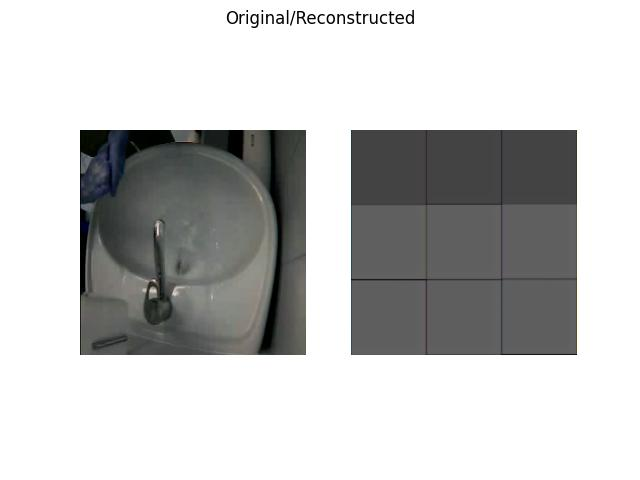
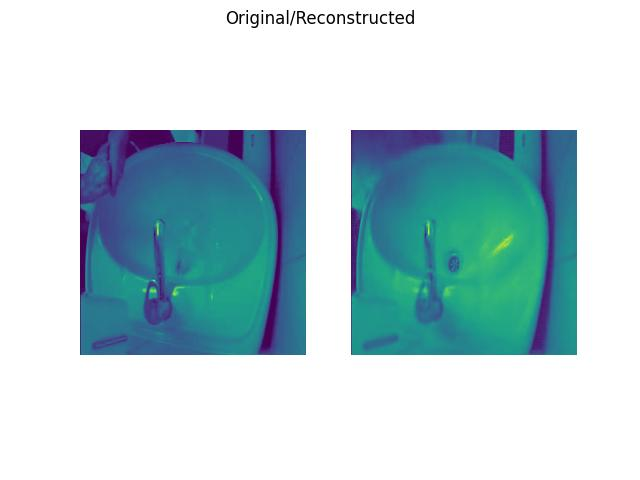
convert the input to 224x224

diff --git a/video_analysis/conv_autoencoder.py b/video_analysis/conv_autoencoder.py
@@ -11,7 +11,7 @@ from tqdm import tqdm
 from utils import get_device
 
 device = get_device()
-color_channels = 3
+color_channels = 1
 # The parameter 'latent dim' refers to the size of the bottleneck = 1000
 #  defining encoder
 class Encoder(nn.Module):
@@ -23,25 +23,25 @@ class Encoder(nn.Module):
 
         self.net = nn.Sequential(
             nn.Conv2d(in_channels, out_channels, 3, padding=1), # (224, 244, 64)
-            nn.Conv2d(out_channels, out_channels, 3, padding=1),
+            #nn.Conv2d(out_channels, out_channels, 3, padding=1),
             act_fn,
             nn.MaxPool2d(kernel_size = 2, stride = 2), # (112, 112, 64)
             nn.Conv2d(out_channels, 2 * out_channels, 3, padding=1), # (112, 112, 128)
-            nn.Conv2d(2* out_channels, 2 * out_channels, 3, padding=1),
+            #nn.Conv2d(2* out_channels, 2 * out_channels, 3, padding=1),
             act_fn,
             nn.MaxPool2d(kernel_size = 2, stride = 2), # (56, 56, 128)
             nn.Conv2d(2 * out_channels, 4*out_channels, 3, padding=1), # (56, 56, 256)
-            nn.Conv2d(4 * out_channels, 4*out_channels, 3, padding=1),
-            nn.Conv2d(4 * out_channels, 4*out_channels, 3, padding=1),
+            #nn.Conv2d(4 * out_channels, 4*out_channels, 3, padding=1),
+            #nn.Conv2d(4 * out_channels, 4*out_channels, 3, padding=1),
             act_fn,
             nn.MaxPool2d(kernel_size = 2, stride = 2), # (28, 28 , 256)
             nn.Conv2d(4*out_channels, 8*out_channels, 3, padding=1), # (28, 28 , 512)
-            nn.Conv2d(8*out_channels, 8*out_channels, 3, padding=1), 
-            nn.Conv2d(8*out_channels, 8*out_channels, 3, padding=1), 
+            #nn.Conv2d(8*out_channels, 8*out_channels, 3, padding=1), 
+            #nn.Conv2d(8*out_channels, 8*out_channels, 3, padding=1), 
             act_fn,
             nn.MaxPool2d(kernel_size = 2, stride = 2), # (14, 14 , 512)
             nn.Conv2d(8*out_channels, 8*out_channels, 3, padding=1), # (14, 14 , 512)
-            nn.Conv2d(8*out_channels, 8*out_channels, 3, padding=1),
+            #nn.Conv2d(8*out_channels, 8*out_channels, 3, padding=1),
             act_fn,
             nn.MaxPool2d(kernel_size = 2, stride = 2), # (7, 7 , 512)
             nn.Flatten(),
@@ -71,22 +71,22 @@ class Decoder(nn.Module):
             act_fn,
             nn.ConvTranspose2d(8*out_channels, 4*out_channels, 3, padding=1,
                             stride=2, output_padding=1), # (14, 14, 256)
-            nn.ConvTranspose2d(4*out_channels, 4*out_channels, 3, padding=1),
+            #nn.ConvTranspose2d(4*out_channels, 4*out_channels, 3, padding=1),
             act_fn,
             nn.ConvTranspose2d(4*out_channels, 2*out_channels, 3, padding=1,
                             stride=2, output_padding=1), # (28, 28, 128)
-            nn.ConvTranspose2d(2*out_channels, 2*out_channels, 3, padding=1),
+            #nn.ConvTranspose2d(2*out_channels, 2*out_channels, 3, padding=1),
             act_fn,
             nn.ConvTranspose2d(2*out_channels, out_channels, 3, padding=1, stride=2, output_padding=1), # (56, 56, 64)
-            nn.ConvTranspose2d(out_channels, out_channels, 3, padding=1), 
+            #nn.ConvTranspose2d(out_channels, out_channels, 3, padding=1), 
             act_fn,
             nn.ConvTranspose2d(out_channels, out_channels, 3, padding=1,
                             stride=2, output_padding=1), # (112, 112, 64)
-            nn.ConvTranspose2d(out_channels, out_channels, 3, padding = 1),
+            #nn.ConvTranspose2d(out_channels, out_channels, 3, padding = 1),
             act_fn,
             nn.ConvTranspose2d(out_channels, out_channels, 3, padding=1,
                             stride=2, output_padding=1), # (224, 224, 64)
-            nn.ConvTranspose2d(out_channels, out_channels, 3 , padding=1),
+            #nn.ConvTranspose2d(out_channels, out_channels, 3 , padding=1),
             act_fn,
             nn.ConvTranspose2d(out_channels, in_channels, 3, padding=1) # (224, 224, 3)
             )

diff --git a/video_analysis/feature_extractor.py b/video_analysis/feature_extractor.py
@@ -48,14 +48,14 @@ def main(args):
                                                                                         transforms.Normalize((0.5, 0.5, 0.5), (0.5, 0.5, 0.5))]))
 
     if args.dataset_name == "handwashing":
-        _dir = "./images/ex_images/"
-        _images = get_images(_dir, '*.jpg', True, (224, 224), False)    
+        _dir = "./images/"
+        _images = get_images(_dir, '*.jpg', True, (224, 224), True)    
         print('images size: ' , _images.size)
         training_data, test_data = train_test_split( _images, test_size=0.2, random_state=42)
         visual_data, test_data = train_test_split(test_data, test_size=0.98, random_state=42)
     #  training model
     model = ConvolutionalAutoencoder(Autoencoder(Encoder(), Decoder()))
-    training_args = {'loss_function': nn.MSELoss(), 'epochs': 1000 , 'batch_size': 10,
+    training_args = {'loss_function': nn.MSELoss(), 'epochs': 100 , 'batch_size': 16,
                 'training_set': training_data, 'test_set': test_data, 'visual_set': visual_data}
     log_dict = model.train(training_args) 
 
